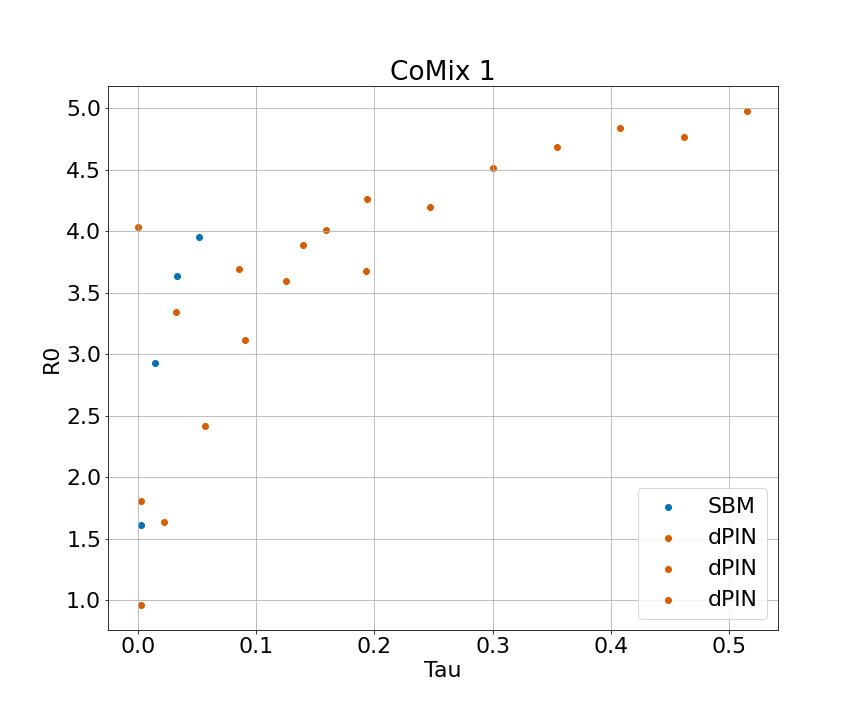
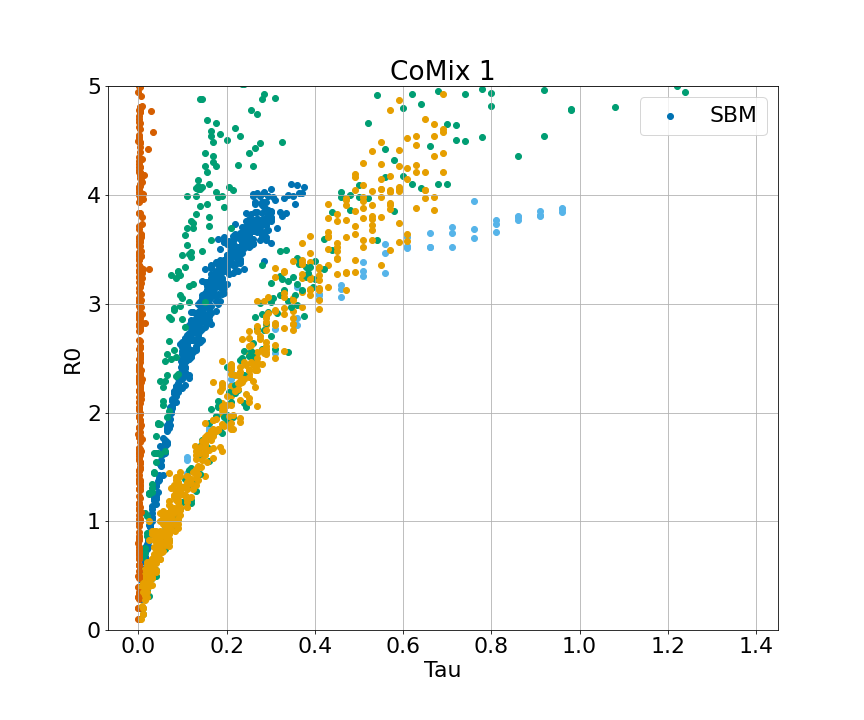
no age sims 5 and c2 2

diff --git a/_final_sellke_noage_c2.py b/_final_sellke_noage_c2.py
@@ -22,18 +22,22 @@ scales = ['fit1']
 
 ## 0,1
 # taus = [[np.arange(0.001,0.07,0.002)]]
-taus = [[np.arange(0.001,0.07,0.002)]]
-# taus = [[np.arange(0.001,0.05,0.002)]]
-taus = [[10*x for x in a] for a in taus]
-## 2,3
-# taus = [[np.arange(0.001,0.07,0.001)]]
 # taus = [[np.arange(0.001,0.07,0.002)]]
 # taus = [[np.arange(0.001,0.05,0.002)]]
-# taus = [[20*x for x in a] for a in taus]
+# taus = [[10*x for x in a] for a in taus]
+## 2,3
+# taus = [[np.arange(0.001,0.07,0.001)]]
+taus = [[np.arange(0.001,0.07,0.002)]]
+# taus = [[np.arange(0.001,0.05,0.002)]]
+taus = [[20*x for x in a] for a in taus]
 ## 4,5
 # taus = [[np.arange(0.001,0.07,0.001)]]
 # taus = [[np.arange(0.001,0.05,0.001)]]
 # taus = [[np.arange(0.001,0.05,0.002)]]
+## 6,7
+# taus = [[np.arange(0.4,0.605,0.005)]]
+# taus = [[np.arange(0.07,0.09,0.002)]]
+# taus = [[np.arange(0.05,0.09,0.002)]]
 
 
 for i, data in enumerate(datas):
@@ -47,6 +51,6 @@ for i, data in enumerate(datas):
         df = pd.read_csv(f'input_data/{data}.csv')
         _, contact_matrix, params = nd_p.fit_to_data(df=df,dist_type=model, buckets=buckets, save_fig=False)
         result = nd_p.big_sellke_sims(partitions=partitions,contact_matrix=contact_matrix,network_params=params,n=n,dist_type=model,num_networks=1,iterations=iters, taus=taus[i][j],prop_infec=10/n, scaling=scales[j])
-        with open(f'../output_data/simulations/big/sellke/SIR/1_{data}_{model}_{scales[j]}_noage3.json','w') as f:
+        with open(f'../output_data/simulations/big/sellke/SIR/2_{data}_{model}_{scales[j]}_noage3.json','w') as f:
             json.dump(result, f)
 print('done')

diff --git a/_final_sellke_noage_c1.py b/_final_sellke_noage_c1.py
@@ -31,11 +31,11 @@ scales = ['fit1']
 # taus = [[np.arange(0.001,0.05,0.002)]]
 # taus = [[20*x for x in a] for a in taus]
 ## 4,5
-taus = [[np.arange(0.005,0.4,0.005)]]
+# taus = [[np.arange(0.005,0.4,0.005)]]
 # taus = [[np.arange(0.001,0.07,0.002)]]
 # taus = [[np.arange(0.001,0.05,0.002)]]
 ## 6,7
-# taus = [[np.arange(0.4,0.6005,0.005)]]
+taus = [[np.arange(0.4,0.605,0.005)]]
 # taus = [[np.arange(0.07,0.09,0.002)]]
 # taus = [[np.arange(0.05,0.09,0.002)]]
 

diff --git a/_final_sellke_noage_p.py b/_final_sellke_noage_p.py
@@ -33,7 +33,11 @@ scales = ['fit1']
 ## 4,5
 # taus = [[np.arange(0.001,0.07,0.001)]]
 # taus = [[np.arange(0.001,0.07,0.002)]]
-taus = [[np.arange(0.001,0.02,0.001)]]
+# taus = [[np.arange(0.001,0.02,0.001)]]
+## 6,7
+# taus = [[np.arange(0.4,0.605,0.005)]]
+# taus = [[np.arange(0.07,0.09,0.002)]]
+taus = [[np.arange(0.05,0.09,0.002)]]
 
 for i, data in enumerate(datas):
     for j, model in enumerate(models):
